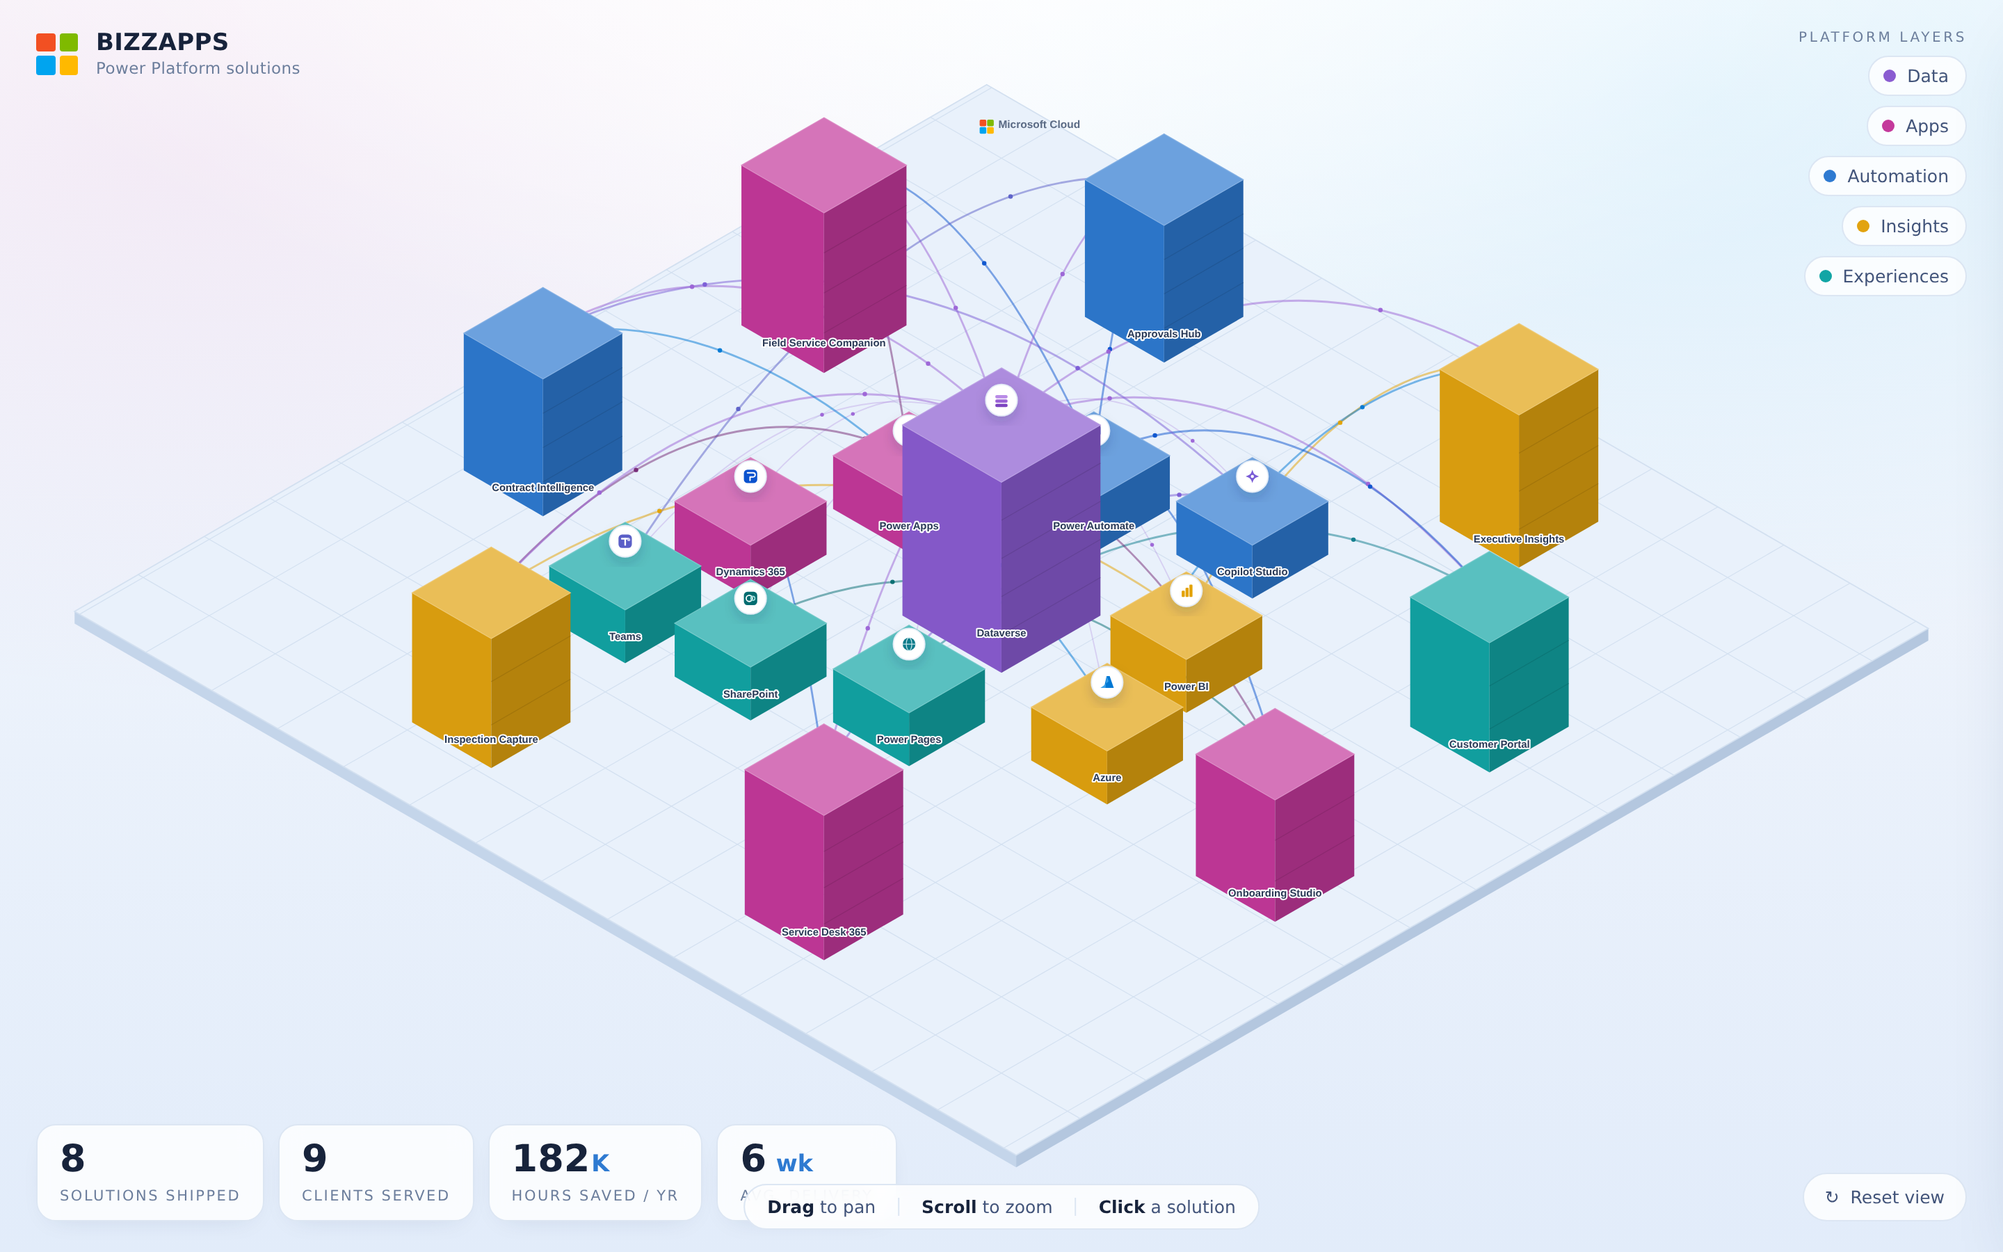
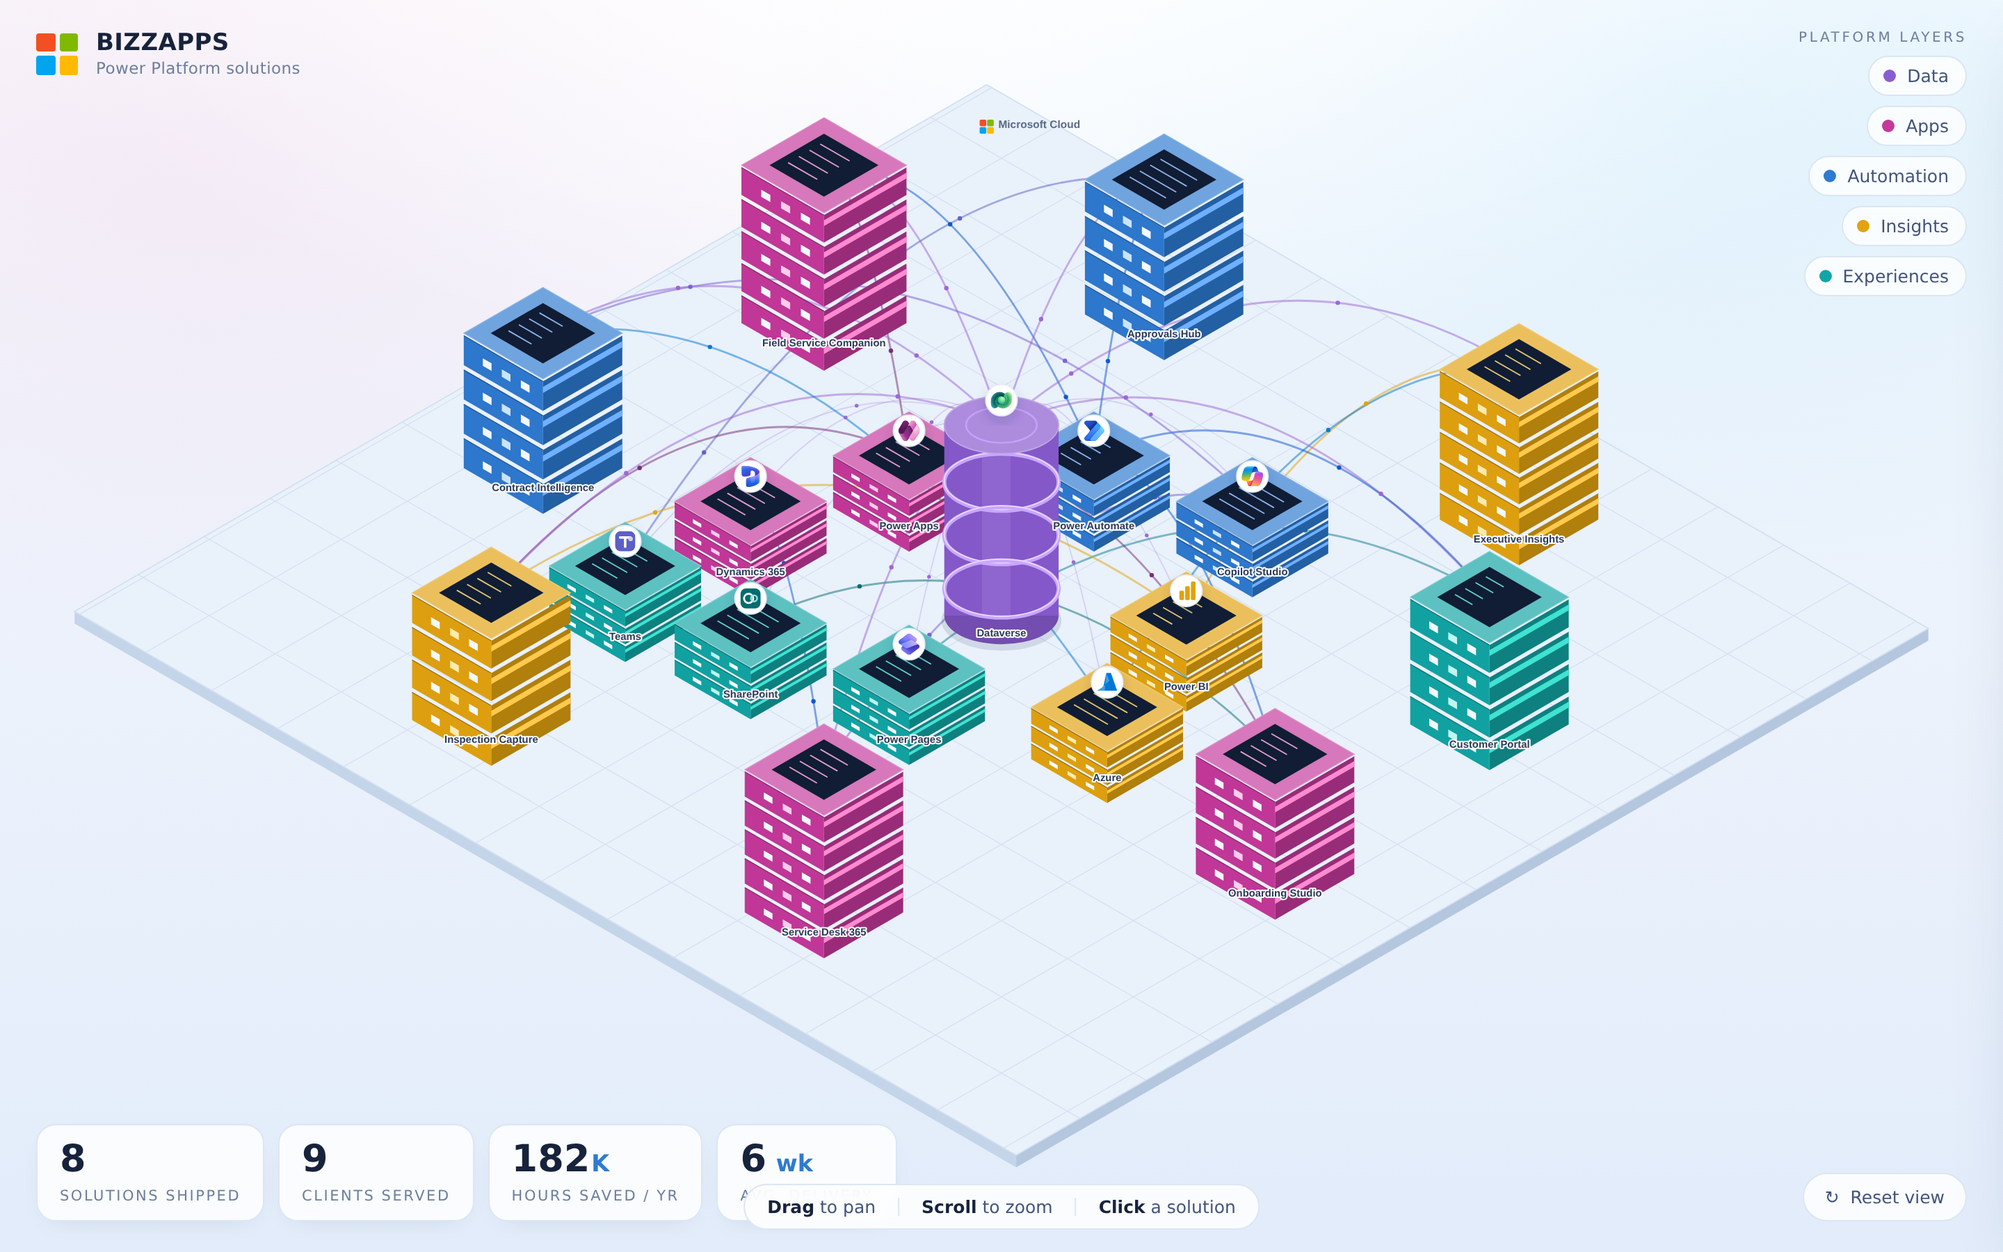
Replace plain blocks with detailed isometric server towers + DB core
Render each solution/service as a colourful isometric server tower: stacked
rack units with seams, glowing neon light bars, indicator LEDs and a code
screen on top (per-layer accent colours). Render the Dataverse core as a
glowing database cylinder with rings. Product icons still billboard above
each node; interactions, flows and panel unchanged.

Claude-Session: https://claude.ai/code/session_01MKDbzarQF23Y67ZeVctjk6

diff --git a/artifact.html b/artifact.html
@@ -374,11 +374,28 @@ window.ICONS = {
   const layerColor = {};
   D.layers.forEach((l) => (layerColor[l.id] = l.color));
 
+  // deterministic 0..1 hash so code-screen lines stay stable across redraws
+  function hash(str) {
+    str = String(str);
+    let h = 2166136261;
+    for (let i = 0; i < str.length; i++) { h ^= str.charCodeAt(i); h = Math.imul(h, 16777619); }
+    return (h >>> 0) / 4294967295;
+  }
+
   const brandColor = {
     dataverse: "#9B63D6", powerapps: "#742774", powerautomate: "#0B53CE",
     powerbi: "#E3A200", copilot: "#7A5CD6", powerpages: "#0E7C8B",
     sharepoint: "#036C70", teams: "#5B5FC7", outlook: "#0F6CBD",
     dynamics: "#0B53CE", azure: "#0078D4",
+  };
+
+  // bright neon accents per layer for glowing bars / LEDs / on-screen code
+  const GLOW = {
+    data:    { bar: "#C9A6FF", led: "#EBDCFF", code: "#D8BEF6" },
+    apps:    { bar: "#FF8AD0", led: "#FFCCEA", code: "#FFAFDE" },
+    auto:    { bar: "#6FB0FF", led: "#CBE3FF", code: "#9FC6FF" },
+    insight: { bar: "#FFC94D", led: "#FFEBAE", code: "#FFDD7A" },
+    exp:     { bar: "#3FE3D2", led: "#BFF6EF", code: "#6BEBDD" },
   };
 
   /* ---------- svg helpers ---------- */
@@ -424,6 +441,71 @@ window.ICONS = {
     // top face
     poly(parent, [Ah, Bh, Ch, Dh], shade(base, 0.30), { stroke: shade(base, 0.42), "stroke-width": 1 });
     return { top: iso(gx, gy, h), ground: iso(gx, gy, 0) };
+  }
+
+  /* ---- a detailed isometric SERVER TOWER: stacked rack units with glowing
+         light bars, indicator LEDs and a code screen on top ---- */
+  function serverTower(parent, gx, gy, w, d, h, base, glow, units) {
+    const xm = gx - w / 2, xM = gx + w / 2, ym = gy - d / 2, yM = gy + d / 2;
+    const uh = h / units, gap = uh * 0.14;
+    const R = (x, y, z) => iso(x, y, z);
+    for (let i = 0; i < units; i++) {
+      const z0 = i * uh + gap * 0.5, z1 = (i + 1) * uh - gap * 0.5;
+      // front-left face (y = yM) and front-right face (x = xM)
+      poly(parent, [R(xm, yM, z1), R(xM, yM, z1), R(xM, yM, z0), R(xm, yM, z0)], shade(base, -0.02));
+      poly(parent, [R(xM, ym, z1), R(xM, yM, z1), R(xM, yM, z0), R(xM, ym, z0)], shade(base, -0.22));
+      // thin dark seam between units on both faces
+      el("line", { x1: R(xm, yM, z1)[0], y1: R(xm, yM, z1)[1], x2: R(xM, yM, z1)[0], y2: R(xM, yM, z1)[1],
+        stroke: shade(base, -0.34), "stroke-width": 1 }, parent);
+      // glowing light bar across the right face, near the top of the unit
+      const b1 = z1 - uh * 0.16, b0 = z1 - uh * 0.34;
+      poly(parent, [R(xM, ym, b1), R(xM, yM, b1), R(xM, yM, b0), R(xM, ym, b0)], glow.bar);
+      // indicator LEDs on the left face, near the bottom of the unit
+      const l1 = z0 + uh * 0.52, l0 = z0 + uh * 0.30;
+      for (let k = 0; k < 3; k++) {
+        const a0 = xm + w * (0.24 + 0.24 * k), a1 = a0 + w * 0.11;
+        poly(parent, [R(a0, yM, l1), R(a1, yM, l1), R(a1, yM, l0), R(a0, yM, l0)], k === 1 ? glow.led : "#F2F8FF");
+      }
+    }
+    // top: bright cap + inset dark "screen" with tiny code lines
+    const Ah = R(xm, ym, h), Bh = R(xM, ym, h), Ch = R(xM, yM, h), Dh = R(xm, yM, h);
+    poly(parent, [Ah, Bh, Ch, Dh], shade(base, 0.32), { stroke: shade(base, 0.46), "stroke-width": 1 });
+    const q = 0.17;
+    poly(parent, [R(xm + w * q, ym + d * q, h), R(xM - w * q, ym + d * q, h),
+      R(xM - w * q, yM - d * q, h), R(xm + w * q, yM - d * q, h)], "#101D34");
+    for (let r = 0; r < 4; r++) {
+      const yy = ym + d * (0.30 + 0.13 * r);
+      const x0 = xm + w * 0.26, x1 = xm + w * (0.42 + 0.30 * hash(gx + "" + gy + r));
+      const a = R(x0, yy, h), b = R(x1, yy, h);
+      el("line", { x1: a[0].toFixed(1), y1: a[1].toFixed(1), x2: b[0].toFixed(1), y2: b[1].toFixed(1),
+        stroke: glow.code, "stroke-width": 1.5, "stroke-linecap": "round", opacity: 0.9 }, parent);
+    }
+    return { top: iso(gx, gy, h), ground: iso(gx, gy, 0) };
+  }
+
+  /* ---- a glowing isometric DATABASE CYLINDER (for the Dataverse core) ---- */
+  function dbTower(parent, gx, gy, size, h, base, glow) {
+    const A = iso(gx, gy, 0);
+    const R = size * TILE * 0.5, ry = R * 0.5, H = h * TILE;
+    const cx = A[0], cyB = A[1], cyT = A[1] - H;
+    // base shadow + bottom cap
+    el("ellipse", { cx, cy: cyB + 6, rx: R * 1.05, ry: ry * 1.05, fill: "#1E2D46", opacity: 0.12 }, parent);
+    el("ellipse", { cx, cy: cyB, rx: R, ry, fill: shade(base, -0.16) }, parent);
+    // cylinder body
+    el("rect", { x: cx - R, y: cyT, width: R * 2, height: H, fill: shade(base, -0.04) }, parent);
+    // soft vertical gloss
+    el("rect", { x: cx - R * 0.34, y: cyT, width: R * 0.5, height: H, fill: shade(base, 0.14), opacity: 0.5 }, parent);
+    // glowing rings
+    [0.30, 0.58, 0.86].forEach((f) => {
+      const y = cyT + H * f;
+      el("ellipse", { cx, cy: y, rx: R, ry, fill: "none", stroke: glow.bar, "stroke-width": 5 }, parent);
+      el("ellipse", { cx, cy: y - 1.5, rx: R, ry, fill: "none", stroke: "#FFFFFF", "stroke-width": 1.4, opacity: 0.6 }, parent);
+    });
+    // top disk
+    el("ellipse", { cx, cy: cyT, rx: R, ry, fill: shade(base, 0.30), stroke: shade(base, 0.46), "stroke-width": 1.5 }, parent);
+    el("ellipse", { cx, cy: cyT, rx: R * 0.62, ry: ry * 0.62, fill: "none", stroke: glow.bar, "stroke-width": 2, opacity: 0.85 }, parent);
+    bd(cx - R, cyT - ry - 6); bd(cx + R, cyB + ry + 8);
+    return { top: [cx, cyT], ground: [cx, cyB] };
   }
 
   /* =====================================================================
@@ -554,8 +636,14 @@ window.ICONS = {
   function drawNode(id, cfg, type) {
     const g = el("g", { class: "node" }, Lnodes);
     const base = layerColor[cfg.layer];
-    const isTall = type !== "service";
-    const geo = isoBox(g, cfg.pos[0], cfg.pos[1], cfg.size, cfg.size, cfg.h, base, isTall ? Math.round(cfg.h * 2) : 0);
+    const glow = GLOW[cfg.layer] || GLOW.data;
+    let geo;
+    if (type === "core") {
+      geo = dbTower(g, cfg.pos[0], cfg.pos[1], cfg.size, cfg.h, base, glow);
+    } else {
+      const units = Math.max(3, Math.round(cfg.h / 0.42));
+      geo = serverTower(g, cfg.pos[0], cfg.pos[1], cfg.size, cfg.size, cfg.h, base, glow, units);
+    }
 
     // product mark billboard (services + core)
     if (cfg.logo) {

diff --git a/index.html b/index.html
@@ -379,11 +379,28 @@ window.ICONS = {
   const layerColor = {};
   D.layers.forEach((l) => (layerColor[l.id] = l.color));
 
+  // deterministic 0..1 hash so code-screen lines stay stable across redraws
+  function hash(str) {
+    str = String(str);
+    let h = 2166136261;
+    for (let i = 0; i < str.length; i++) { h ^= str.charCodeAt(i); h = Math.imul(h, 16777619); }
+    return (h >>> 0) / 4294967295;
+  }
+
   const brandColor = {
     dataverse: "#9B63D6", powerapps: "#742774", powerautomate: "#0B53CE",
     powerbi: "#E3A200", copilot: "#7A5CD6", powerpages: "#0E7C8B",
     sharepoint: "#036C70", teams: "#5B5FC7", outlook: "#0F6CBD",
     dynamics: "#0B53CE", azure: "#0078D4",
+  };
+
+  // bright neon accents per layer for glowing bars / LEDs / on-screen code
+  const GLOW = {
+    data:    { bar: "#C9A6FF", led: "#EBDCFF", code: "#D8BEF6" },
+    apps:    { bar: "#FF8AD0", led: "#FFCCEA", code: "#FFAFDE" },
+    auto:    { bar: "#6FB0FF", led: "#CBE3FF", code: "#9FC6FF" },
+    insight: { bar: "#FFC94D", led: "#FFEBAE", code: "#FFDD7A" },
+    exp:     { bar: "#3FE3D2", led: "#BFF6EF", code: "#6BEBDD" },
   };
 
   /* ---------- svg helpers ---------- */
@@ -429,6 +446,71 @@ window.ICONS = {
     // top face
     poly(parent, [Ah, Bh, Ch, Dh], shade(base, 0.30), { stroke: shade(base, 0.42), "stroke-width": 1 });
     return { top: iso(gx, gy, h), ground: iso(gx, gy, 0) };
+  }
+
+  /* ---- a detailed isometric SERVER TOWER: stacked rack units with glowing
+         light bars, indicator LEDs and a code screen on top ---- */
+  function serverTower(parent, gx, gy, w, d, h, base, glow, units) {
+    const xm = gx - w / 2, xM = gx + w / 2, ym = gy - d / 2, yM = gy + d / 2;
+    const uh = h / units, gap = uh * 0.14;
+    const R = (x, y, z) => iso(x, y, z);
+    for (let i = 0; i < units; i++) {
+      const z0 = i * uh + gap * 0.5, z1 = (i + 1) * uh - gap * 0.5;
+      // front-left face (y = yM) and front-right face (x = xM)
+      poly(parent, [R(xm, yM, z1), R(xM, yM, z1), R(xM, yM, z0), R(xm, yM, z0)], shade(base, -0.02));
+      poly(parent, [R(xM, ym, z1), R(xM, yM, z1), R(xM, yM, z0), R(xM, ym, z0)], shade(base, -0.22));
+      // thin dark seam between units on both faces
+      el("line", { x1: R(xm, yM, z1)[0], y1: R(xm, yM, z1)[1], x2: R(xM, yM, z1)[0], y2: R(xM, yM, z1)[1],
+        stroke: shade(base, -0.34), "stroke-width": 1 }, parent);
+      // glowing light bar across the right face, near the top of the unit
+      const b1 = z1 - uh * 0.16, b0 = z1 - uh * 0.34;
+      poly(parent, [R(xM, ym, b1), R(xM, yM, b1), R(xM, yM, b0), R(xM, ym, b0)], glow.bar);
+      // indicator LEDs on the left face, near the bottom of the unit
+      const l1 = z0 + uh * 0.52, l0 = z0 + uh * 0.30;
+      for (let k = 0; k < 3; k++) {
+        const a0 = xm + w * (0.24 + 0.24 * k), a1 = a0 + w * 0.11;
+        poly(parent, [R(a0, yM, l1), R(a1, yM, l1), R(a1, yM, l0), R(a0, yM, l0)], k === 1 ? glow.led : "#F2F8FF");
+      }
+    }
+    // top: bright cap + inset dark "screen" with tiny code lines
+    const Ah = R(xm, ym, h), Bh = R(xM, ym, h), Ch = R(xM, yM, h), Dh = R(xm, yM, h);
+    poly(parent, [Ah, Bh, Ch, Dh], shade(base, 0.32), { stroke: shade(base, 0.46), "stroke-width": 1 });
+    const q = 0.17;
+    poly(parent, [R(xm + w * q, ym + d * q, h), R(xM - w * q, ym + d * q, h),
+      R(xM - w * q, yM - d * q, h), R(xm + w * q, yM - d * q, h)], "#101D34");
+    for (let r = 0; r < 4; r++) {
+      const yy = ym + d * (0.30 + 0.13 * r);
+      const x0 = xm + w * 0.26, x1 = xm + w * (0.42 + 0.30 * hash(gx + "" + gy + r));
+      const a = R(x0, yy, h), b = R(x1, yy, h);
+      el("line", { x1: a[0].toFixed(1), y1: a[1].toFixed(1), x2: b[0].toFixed(1), y2: b[1].toFixed(1),
+        stroke: glow.code, "stroke-width": 1.5, "stroke-linecap": "round", opacity: 0.9 }, parent);
+    }
+    return { top: iso(gx, gy, h), ground: iso(gx, gy, 0) };
+  }
+
+  /* ---- a glowing isometric DATABASE CYLINDER (for the Dataverse core) ---- */
+  function dbTower(parent, gx, gy, size, h, base, glow) {
+    const A = iso(gx, gy, 0);
+    const R = size * TILE * 0.5, ry = R * 0.5, H = h * TILE;
+    const cx = A[0], cyB = A[1], cyT = A[1] - H;
+    // base shadow + bottom cap
+    el("ellipse", { cx, cy: cyB + 6, rx: R * 1.05, ry: ry * 1.05, fill: "#1E2D46", opacity: 0.12 }, parent);
+    el("ellipse", { cx, cy: cyB, rx: R, ry, fill: shade(base, -0.16) }, parent);
+    // cylinder body
+    el("rect", { x: cx - R, y: cyT, width: R * 2, height: H, fill: shade(base, -0.04) }, parent);
+    // soft vertical gloss
+    el("rect", { x: cx - R * 0.34, y: cyT, width: R * 0.5, height: H, fill: shade(base, 0.14), opacity: 0.5 }, parent);
+    // glowing rings
+    [0.30, 0.58, 0.86].forEach((f) => {
+      const y = cyT + H * f;
+      el("ellipse", { cx, cy: y, rx: R, ry, fill: "none", stroke: glow.bar, "stroke-width": 5 }, parent);
+      el("ellipse", { cx, cy: y - 1.5, rx: R, ry, fill: "none", stroke: "#FFFFFF", "stroke-width": 1.4, opacity: 0.6 }, parent);
+    });
+    // top disk
+    el("ellipse", { cx, cy: cyT, rx: R, ry, fill: shade(base, 0.30), stroke: shade(base, 0.46), "stroke-width": 1.5 }, parent);
+    el("ellipse", { cx, cy: cyT, rx: R * 0.62, ry: ry * 0.62, fill: "none", stroke: glow.bar, "stroke-width": 2, opacity: 0.85 }, parent);
+    bd(cx - R, cyT - ry - 6); bd(cx + R, cyB + ry + 8);
+    return { top: [cx, cyT], ground: [cx, cyB] };
   }
 
   /* =====================================================================
@@ -559,8 +641,14 @@ window.ICONS = {
   function drawNode(id, cfg, type) {
     const g = el("g", { class: "node" }, Lnodes);
     const base = layerColor[cfg.layer];
-    const isTall = type !== "service";
-    const geo = isoBox(g, cfg.pos[0], cfg.pos[1], cfg.size, cfg.size, cfg.h, base, isTall ? Math.round(cfg.h * 2) : 0);
+    const glow = GLOW[cfg.layer] || GLOW.data;
+    let geo;
+    if (type === "core") {
+      geo = dbTower(g, cfg.pos[0], cfg.pos[1], cfg.size, cfg.h, base, glow);
+    } else {
+      const units = Math.max(3, Math.round(cfg.h / 0.42));
+      geo = serverTower(g, cfg.pos[0], cfg.pos[1], cfg.size, cfg.size, cfg.h, base, glow, units);
+    }
 
     // product mark billboard (services + core)
     if (cfg.logo) {

diff --git a/src/ms-iso.js b/src/ms-iso.js
@@ -19,11 +19,28 @@
   const layerColor = {};
   D.layers.forEach((l) => (layerColor[l.id] = l.color));
 
+  // deterministic 0..1 hash so code-screen lines stay stable across redraws
+  function hash(str) {
+    str = String(str);
+    let h = 2166136261;
+    for (let i = 0; i < str.length; i++) { h ^= str.charCodeAt(i); h = Math.imul(h, 16777619); }
+    return (h >>> 0) / 4294967295;
+  }
+
   const brandColor = {
     dataverse: "#9B63D6", powerapps: "#742774", powerautomate: "#0B53CE",
     powerbi: "#E3A200", copilot: "#7A5CD6", powerpages: "#0E7C8B",
     sharepoint: "#036C70", teams: "#5B5FC7", outlook: "#0F6CBD",
     dynamics: "#0B53CE", azure: "#0078D4",
+  };
+
+  // bright neon accents per layer for glowing bars / LEDs / on-screen code
+  const GLOW = {
+    data:    { bar: "#C9A6FF", led: "#EBDCFF", code: "#D8BEF6" },
+    apps:    { bar: "#FF8AD0", led: "#FFCCEA", code: "#FFAFDE" },
+    auto:    { bar: "#6FB0FF", led: "#CBE3FF", code: "#9FC6FF" },
+    insight: { bar: "#FFC94D", led: "#FFEBAE", code: "#FFDD7A" },
+    exp:     { bar: "#3FE3D2", led: "#BFF6EF", code: "#6BEBDD" },
   };
 
   /* ---------- svg helpers ---------- */
@@ -69,6 +86,71 @@
     // top face
     poly(parent, [Ah, Bh, Ch, Dh], shade(base, 0.30), { stroke: shade(base, 0.42), "stroke-width": 1 });
     return { top: iso(gx, gy, h), ground: iso(gx, gy, 0) };
+  }
+
+  /* ---- a detailed isometric SERVER TOWER: stacked rack units with glowing
+         light bars, indicator LEDs and a code screen on top ---- */
+  function serverTower(parent, gx, gy, w, d, h, base, glow, units) {
+    const xm = gx - w / 2, xM = gx + w / 2, ym = gy - d / 2, yM = gy + d / 2;
+    const uh = h / units, gap = uh * 0.14;
+    const R = (x, y, z) => iso(x, y, z);
+    for (let i = 0; i < units; i++) {
+      const z0 = i * uh + gap * 0.5, z1 = (i + 1) * uh - gap * 0.5;
+      // front-left face (y = yM) and front-right face (x = xM)
+      poly(parent, [R(xm, yM, z1), R(xM, yM, z1), R(xM, yM, z0), R(xm, yM, z0)], shade(base, -0.02));
+      poly(parent, [R(xM, ym, z1), R(xM, yM, z1), R(xM, yM, z0), R(xM, ym, z0)], shade(base, -0.22));
+      // thin dark seam between units on both faces
+      el("line", { x1: R(xm, yM, z1)[0], y1: R(xm, yM, z1)[1], x2: R(xM, yM, z1)[0], y2: R(xM, yM, z1)[1],
+        stroke: shade(base, -0.34), "stroke-width": 1 }, parent);
+      // glowing light bar across the right face, near the top of the unit
+      const b1 = z1 - uh * 0.16, b0 = z1 - uh * 0.34;
+      poly(parent, [R(xM, ym, b1), R(xM, yM, b1), R(xM, yM, b0), R(xM, ym, b0)], glow.bar);
+      // indicator LEDs on the left face, near the bottom of the unit
+      const l1 = z0 + uh * 0.52, l0 = z0 + uh * 0.30;
+      for (let k = 0; k < 3; k++) {
+        const a0 = xm + w * (0.24 + 0.24 * k), a1 = a0 + w * 0.11;
+        poly(parent, [R(a0, yM, l1), R(a1, yM, l1), R(a1, yM, l0), R(a0, yM, l0)], k === 1 ? glow.led : "#F2F8FF");
+      }
+    }
+    // top: bright cap + inset dark "screen" with tiny code lines
+    const Ah = R(xm, ym, h), Bh = R(xM, ym, h), Ch = R(xM, yM, h), Dh = R(xm, yM, h);
+    poly(parent, [Ah, Bh, Ch, Dh], shade(base, 0.32), { stroke: shade(base, 0.46), "stroke-width": 1 });
+    const q = 0.17;
+    poly(parent, [R(xm + w * q, ym + d * q, h), R(xM - w * q, ym + d * q, h),
+      R(xM - w * q, yM - d * q, h), R(xm + w * q, yM - d * q, h)], "#101D34");
+    for (let r = 0; r < 4; r++) {
+      const yy = ym + d * (0.30 + 0.13 * r);
+      const x0 = xm + w * 0.26, x1 = xm + w * (0.42 + 0.30 * hash(gx + "" + gy + r));
+      const a = R(x0, yy, h), b = R(x1, yy, h);
+      el("line", { x1: a[0].toFixed(1), y1: a[1].toFixed(1), x2: b[0].toFixed(1), y2: b[1].toFixed(1),
+        stroke: glow.code, "stroke-width": 1.5, "stroke-linecap": "round", opacity: 0.9 }, parent);
+    }
+    return { top: iso(gx, gy, h), ground: iso(gx, gy, 0) };
+  }
+
+  /* ---- a glowing isometric DATABASE CYLINDER (for the Dataverse core) ---- */
+  function dbTower(parent, gx, gy, size, h, base, glow) {
+    const A = iso(gx, gy, 0);
+    const R = size * TILE * 0.5, ry = R * 0.5, H = h * TILE;
+    const cx = A[0], cyB = A[1], cyT = A[1] - H;
+    // base shadow + bottom cap
+    el("ellipse", { cx, cy: cyB + 6, rx: R * 1.05, ry: ry * 1.05, fill: "#1E2D46", opacity: 0.12 }, parent);
+    el("ellipse", { cx, cy: cyB, rx: R, ry, fill: shade(base, -0.16) }, parent);
+    // cylinder body
+    el("rect", { x: cx - R, y: cyT, width: R * 2, height: H, fill: shade(base, -0.04) }, parent);
+    // soft vertical gloss
+    el("rect", { x: cx - R * 0.34, y: cyT, width: R * 0.5, height: H, fill: shade(base, 0.14), opacity: 0.5 }, parent);
+    // glowing rings
+    [0.30, 0.58, 0.86].forEach((f) => {
+      const y = cyT + H * f;
+      el("ellipse", { cx, cy: y, rx: R, ry, fill: "none", stroke: glow.bar, "stroke-width": 5 }, parent);
+      el("ellipse", { cx, cy: y - 1.5, rx: R, ry, fill: "none", stroke: "#FFFFFF", "stroke-width": 1.4, opacity: 0.6 }, parent);
+    });
+    // top disk
+    el("ellipse", { cx, cy: cyT, rx: R, ry, fill: shade(base, 0.30), stroke: shade(base, 0.46), "stroke-width": 1.5 }, parent);
+    el("ellipse", { cx, cy: cyT, rx: R * 0.62, ry: ry * 0.62, fill: "none", stroke: glow.bar, "stroke-width": 2, opacity: 0.85 }, parent);
+    bd(cx - R, cyT - ry - 6); bd(cx + R, cyB + ry + 8);
+    return { top: [cx, cyT], ground: [cx, cyB] };
   }
 
   /* =====================================================================
@@ -199,8 +281,14 @@
   function drawNode(id, cfg, type) {
     const g = el("g", { class: "node" }, Lnodes);
     const base = layerColor[cfg.layer];
-    const isTall = type !== "service";
-    const geo = isoBox(g, cfg.pos[0], cfg.pos[1], cfg.size, cfg.size, cfg.h, base, isTall ? Math.round(cfg.h * 2) : 0);
+    const glow = GLOW[cfg.layer] || GLOW.data;
+    let geo;
+    if (type === "core") {
+      geo = dbTower(g, cfg.pos[0], cfg.pos[1], cfg.size, cfg.h, base, glow);
+    } else {
+      const units = Math.max(3, Math.round(cfg.h / 0.42));
+      geo = serverTower(g, cfg.pos[0], cfg.pos[1], cfg.size, cfg.size, cfg.h, base, glow, units);
+    }
 
     // product mark billboard (services + core)
     if (cfg.logo) {
